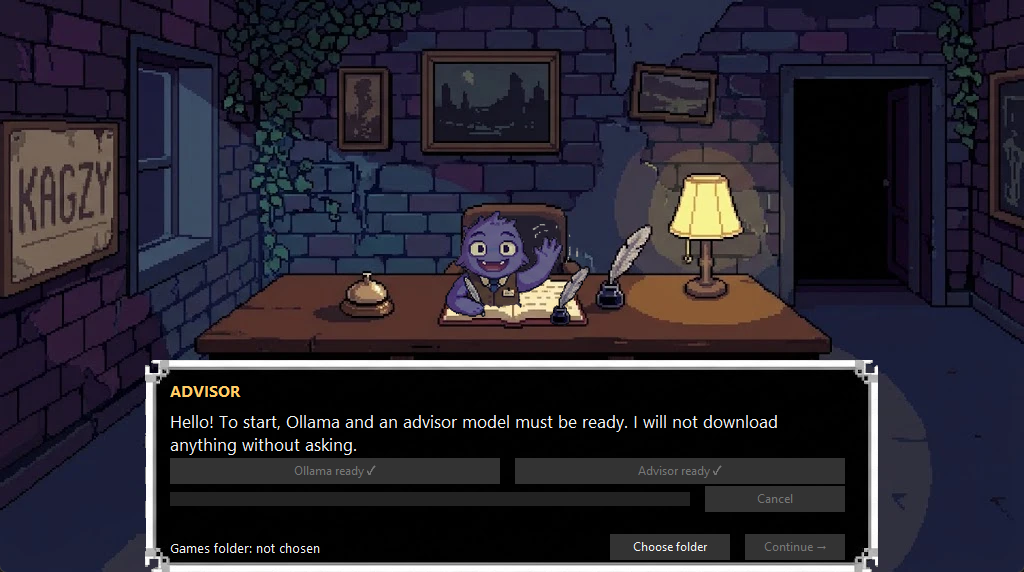
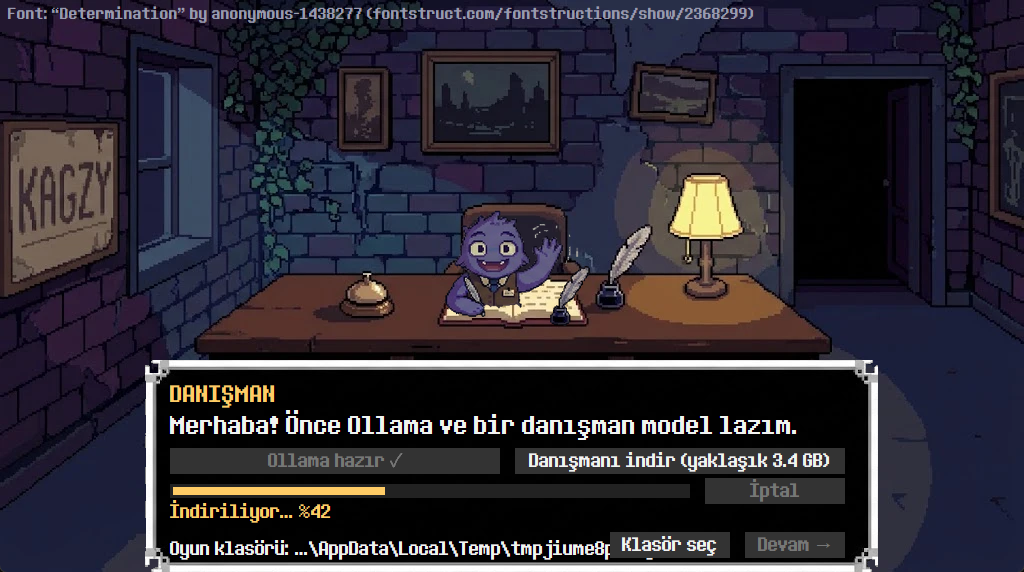
feat(ui): yazılar Determination yazı tipiyle; atıf pencerede, LICENSE.txt ve README'de

Changed region(s): [[0.1562, 0.6538, 0.8438, 0.9808], [0.0, 0.0, 0.75, 0.0594]]

diff --git a/src/k_minigames/ui/setup_screen.py b/src/k_minigames/ui/setup_screen.py
@@ -9,13 +9,14 @@ from tkinter import ttk
 from k_minigames import catalog, hardware, i18n, installer, library, model_check, settings
 from k_minigames.ollama_client import InstalledModel
 from k_minigames.startup import CANCEL_MESSAGE, Offer, build_offers, first_accepted, setup_buttons, SetupButtons
+from k_minigames.ui import fonts
 from k_minigames.ui.services import Services
 from k_minigames.ui.stage import LABEL_COLOR, TEXT_COLOR, TEXT_X
 
 t = i18n.t
 
-INTRO = "Merhaba! Başlamak için Ollama'nın ve bir danışman modelin hazır olması lazım. Sormadan hiçbir şey indirmem."
-BUTTON_Y, PROGRESS_Y, STATUS_Y, FOLDER_Y = 458, 492, 510, 534
+INTRO = "Merhaba! Önce Ollama ve bir danışman model lazım."
+BUTTON_Y, PROGRESS_Y, STATUS_Y, FOLDER_Y = 448, 484, 500, 532
 _MEASURE = object()
 _INSTALL_RESULT = {
     "download_failed": "İndirme olmadı. İnternet bağlantını kontrol edip tekrar dene.",
@@ -54,7 +55,8 @@ class SetupScreen:
 
     def _button(self, x: int, y: int, width: int, command) -> tk.Button:
         button = tk.Button(self.s.stage, relief="flat", bg="#333333", fg=TEXT_COLOR, activebackground="#555555",
-                           activeforeground=TEXT_COLOR, disabledforeground="#777777", command=command)
+                           activeforeground=TEXT_COLOR, disabledforeground="#777777", command=command,
+                           font=fonts.font(self.s.stage, fonts.BUTTON))
         self.s.stage.create_window(x, y, anchor="nw", window=button, width=width, height=26, tags="setup")
         self._widgets.append(button)
         return button
@@ -72,9 +74,9 @@ class SetupScreen:
         self._widgets.append(self.bar)
         self.cancel_button = self._button(TEXT_X + 535, PROGRESS_Y - 6, 140, self._on_cancel)
         self.cancel_button.configure(text=t("İptal"), state="disabled")
-        stage.create_text(TEXT_X, STATUS_Y, anchor="nw", text="", fill=LABEL_COLOR, font=("Segoe UI", 10),
+        stage.create_text(TEXT_X, STATUS_Y, anchor="nw", text="", fill=LABEL_COLOR, font=fonts.font(stage, fonts.BUTTON),
                           tags=("setup", "status"))
-        stage.create_text(TEXT_X, FOLDER_Y + 5, anchor="nw", text="", fill=TEXT_COLOR, font=("Segoe UI", 10),
+        stage.create_text(TEXT_X, FOLDER_Y + 5, anchor="nw", text="", fill=TEXT_COLOR, font=fonts.font(stage, fonts.BUTTON),
                           tags=("setup", "folder"))
         self.folder_button = self._button(TEXT_X + 440, FOLDER_Y, 120, self._on_folder)
         self.folder_button.configure(text=t("Klasör seç"))
@@ -90,8 +92,8 @@ class SetupScreen:
     def _show_folder(self) -> None:
         folder = settings.games_dir()
         shown = str(folder) if folder else t("seçilmedi")
-        if len(shown) > 52:
-            shown = "…" + shown[-51:]
+        if len(shown) > 40:
+            shown = "…" + shown[-39:]
         self.s.stage.itemconfigure("folder", text=f"{t('Oyun klasörü')}: {shown}")
 
     def apply_buttons(self, buttons: SetupButtons, ollama_size: str | None, advisor_gb: float,

diff --git a/src/k_minigames/ui/stage.py b/src/k_minigames/ui/stage.py
@@ -8,6 +8,7 @@ from collections.abc import Callable
 from pathlib import Path
 
 from k_minigames import i18n, mascot
+from k_minigames.ui import fonts
 
 RUNTIME = Path(__file__).resolve().parent.parent / "assets" / "runtime"
 _SCENES = {"danisman": "danisman_sahne.png", "lobi": "lobi.png"}
@@ -31,6 +32,8 @@ class Stage(tk.Canvas):
         self.entry: tk.Entry | None = None
         self._send_button: tk.Button | None = None
         self._dialog_drawn = False
+        self.create_text(8, 4, anchor="nw", text=fonts.ATTRIBUTION, fill="#9a9ab0",
+                         font=fonts.font(self, fonts.SMALL), tags="credit")
 
     def _picture(self, relative: str) -> tk.PhotoImage:
         if relative not in self._pictures:
@@ -41,6 +44,7 @@ class Stage(tk.Canvas):
 
     def _layer(self) -> None:
         """scene at the bottom, then the character, then the dialogue box and its widgets."""
+        self.tag_raise("credit")
         for tag in ("dialog", "dialogtext", "input"):
             self.tag_raise(tag)
         if self.find_withtag("dialog"):
@@ -65,9 +69,9 @@ class Stage(tk.Canvas):
             self._dialog_drawn = True
         self.delete("dialogtext")
         self.create_text(TEXT_X, LABEL_Y, anchor="nw", text=i18n.t(speaker), fill=LABEL_COLOR,
-                         font=("Segoe UI", 12, "bold"), tags="dialogtext")
+                         font=fonts.font(self, fonts.LABEL), tags="dialogtext")
         self.create_text(TEXT_X, MESSAGE_Y, anchor="nw", text=text, fill=TEXT_COLOR, width=MESSAGE_WIDTH,
-                         font=("Segoe UI", 13), tags="dialogtext")
+                         font=fonts.font(self, fonts.MESSAGE), tags="dialogtext")
         self._layer()
 
     def ask(self, on_submit: Callable[[str], None]) -> None:
@@ -75,11 +79,11 @@ class Stage(tk.Canvas):
         self.stop_asking()
         self._on_submit = on_submit
         self.entry = tk.Entry(self, bg="black", fg=TEXT_COLOR, insertbackground=TEXT_COLOR, relief="flat",
-                              font=("Segoe UI", 13), highlightthickness=1, highlightbackground="#666666",
+                              font=fonts.font(self, fonts.INPUT), highlightthickness=1, highlightbackground="#666666",
                               highlightcolor=LABEL_COLOR)
         self._send_button = tk.Button(self, text=i18n.t("Gönder"), command=self.submit, relief="flat",
                                       bg="#333333", fg=TEXT_COLOR, activebackground="#555555",
-                                      activeforeground=TEXT_COLOR)
+                                      activeforeground=TEXT_COLOR, font=fonts.font(self, fonts.BUTTON))
         self.create_window(TEXT_X, INPUT_Y, anchor="nw", window=self.entry, width=590, height=30, tags="input")
         self.create_window(TEXT_X + 600, INPUT_Y, anchor="nw", window=self._send_button, width=80, height=30,
                            tags="input")

diff --git a/src/k_minigames/ui/fonts.py b/src/k_minigames/ui/fonts.py
@@ -1,0 +1,48 @@
+"""The app's font: “Determination” (the pixel font of the dialogue boxes in Undertale-like games).
+
+The .ttf lives in assets/fonts next to its attribution (LICENSE.txt); `ATTRIBUTION` is shown in the window. The font
+is made available to this process only (nothing is installed on the computer). If it is missing the app falls back to
+a system font, so a broken install never stops the app."""
+import ctypes
+import tkinter as tk
+from pathlib import Path
+from tkinter import font as tkfont
+
+FONT_DIR = Path(__file__).resolve().parent.parent / "assets" / "fonts"
+FALLBACK = "Segoe UI"
+ATTRIBUTION = "Font: “Determination” by anonymous-1438277 (fontstruct.com/fontstructions/show/2368299)"
+_FAMILY = "Determination"
+_FR_PRIVATE = 0x10   # AddFontResourceEx: usable by this process only, gone when it ends
+
+# pixel sizes (Tk: a negative size is in pixels, which keeps a pixel font sharp)
+LABEL, MESSAGE, INPUT, BUTTON, LIST, SMALL = 22, 24, 22, 18, 20, 15
+
+_loaded = False
+_count = 0
+
+
+def load() -> int:
+    """Make every .ttf in FONT_DIR usable for this process. Returns how many were added (0 when there are none)."""
+    global _loaded, _count
+    if _loaded:
+        return _count
+    _count = 0
+    for path in sorted(FONT_DIR.glob("*.ttf")) if FONT_DIR.is_dir() else []:
+        try:
+            if ctypes.windll.gdi32.AddFontResourceExW(str(path), _FR_PRIVATE, 0):
+                _count += 1
+        except (AttributeError, OSError):
+            pass
+    _loaded = True
+    return _count
+
+
+def family(root: tk.Misc) -> str:
+    """The font's family name if Tk can see it, else a system font."""
+    load()
+    return _FAMILY if _FAMILY in tkfont.families(root) else FALLBACK
+
+
+def font(root: tk.Misc, size: int) -> tuple[str, int]:
+    """A Tk font tuple at `size` pixels."""
+    return family(root), -size

diff --git a/src/k_minigames/ui/library_screen.py b/src/k_minigames/ui/library_screen.py
@@ -3,12 +3,13 @@ import tkinter as tk
 
 from k_minigames import i18n, library, settings
 from k_minigames.library import Game
+from k_minigames.ui import fonts
 from k_minigames.ui.services import Services
 from k_minigames.ui.stage import LABEL_COLOR, TEXT_COLOR, TEXT_X
 
 t = i18n.t
 
-INTRO = "Oyunların burada. Birini seç ya da yeni bir tane yapalım!"
+INTRO = "Oyunların burada. Birini seç ya da yeni oyun yap!"
 EMPTY = "Henüz oyunun yok. Hadi ilkini yapalım!"
 SPEAKER = "GÖREVLİ"
 LIST_Y, BUTTON_X, BUTTON_W = 440, 660, 190
@@ -43,13 +44,14 @@ class LibraryScreen:
 
     def _button(self, text: str, y: int, command) -> None:
         button = tk.Button(self.s.stage, text=t(text), command=command, relief="flat", bg="#333333", fg=TEXT_COLOR,
-                           activebackground="#555555", activeforeground=TEXT_COLOR)
+                           activebackground="#555555", activeforeground=TEXT_COLOR,
+                           font=fonts.font(self.s.stage, fonts.BUTTON))
         self._place(button, BUTTON_X, y, BUTTON_W, 26)
 
     def _build(self) -> None:
         self.listbox = tk.Listbox(self.s.stage, bg="black", fg=TEXT_COLOR, selectbackground=LABEL_COLOR,
                                   selectforeground="black", relief="flat", highlightthickness=1,
-                                  highlightbackground="#666666", font=("Segoe UI", 12), activestyle="none",
+                                  highlightbackground="#666666", font=fonts.font(self.s.stage, fonts.LIST), activestyle="none",
                                   exportselection=False)
         for game in self._games:
             self.listbox.insert("end", game.name)

diff --git a/src/k_minigames/i18n.py b/src/k_minigames/i18n.py
@@ -13,8 +13,7 @@ _PAIRS = {
     "Oyun klasörü": "Games folder",
     "DANIŞMAN": "ADVISOR", "SEN": "YOU", "Gönder": "Send",
     # setup screen
-    "Merhaba! Başlamak için Ollama'nın ve bir danışman modelin hazır olması lazım. Sormadan hiçbir şey indirmem.":
-        "Hello! To start, Ollama and an advisor model must be ready. I will not download anything without asking.",
+    "Merhaba! Önce Ollama ve bir danışman model lazım.": "Hello! First we need Ollama and an advisor model.",
     "Ollama'yı indir": "Download Ollama", " (yaklaşık ": " (about ", "Ollama'yı başlat": "Start Ollama",
     "Ollama hazır ✓": "Ollama ready ✓", "Danışmanı indir": "Download the advisor",
     "Danışman modelini seç": "Choose the advisor model", "Danışman hazır ✓": "Advisor ready ✓",
@@ -53,7 +52,7 @@ _PAIRS = {
     "; bilgisayar zayıf, en küçük model denenebilir": "; this computer is weak, the smallest model can be tried",
     # library and studio (the bellhop)
     "GÖREVLİ": "BELLHOP",
-    "Oyunların burada. Birini seç ya da yeni bir tane yapalım!": "Your games are here. Pick one or let's make a new one!",
+    "Oyunların burada. Birini seç ya da yeni oyun yap!": "Your games are here. Pick one or make a new one!",
     "Henüz oyunun yok. Hadi ilkini yapalım!": "You have no games yet. Let's make your first one!",
     "Oyna": "Play", "Düzenle": "Edit", "Klasörü aç": "Open folder", "Yeni oyun": "New game",
     "Kütüphane": "Library", "Tekrar dene": "Try again", "Doku ekle": "Add texture",

diff --git a/tests/test_fonts.py b/tests/test_fonts.py
@@ -1,0 +1,45 @@
+import tkinter as tk
+
+import pytest
+
+from k_minigames.ui import fonts
+
+
+@pytest.fixture
+def root():
+    try:
+        window = tk.Tk()
+    except tk.TclError:
+        pytest.skip("no display for Tk")
+    window.withdraw()
+    yield window
+    window.destroy()
+
+
+def test_the_font_file_and_its_attribution_ship_together():
+    assert (fonts.FONT_DIR / "determination.ttf").is_file()
+    notice = (fonts.FONT_DIR / "LICENSE.txt").read_text(encoding="utf-8")
+    assert 'The FontStruction “Determination”' in notice
+    assert "https://fontstruct.com/fontstructions/show/2368299" in notice and "anonymous-1438277" in notice
+
+
+def test_the_font_is_loaded_for_the_app_and_found_by_name(root):
+    assert fonts.load() >= 1
+    assert fonts.family(root) == "Determination"
+
+
+def test_when_the_font_cannot_be_found_the_app_falls_back_to_a_system_font(root, monkeypatch):
+    monkeypatch.setattr(fonts, "FONT_DIR", fonts.FONT_DIR / "yok")
+    monkeypatch.setattr(fonts, "_loaded", False)
+    monkeypatch.setattr(fonts, "_FAMILY", "Olmayan Yazı Tipi")
+    assert fonts.family(root) == fonts.FALLBACK
+
+
+def test_font_returns_a_family_and_a_pixel_size_in_tk_form(root):
+    family, size = fonts.font(root, 20)
+    assert family == "Determination" and size == -20
+
+
+def test_the_attribution_line_names_the_font_its_author_and_the_page():
+    line = fonts.ATTRIBUTION
+    assert "Determination" in line and "anonymous-1438277" in line and "fontstruct.com" in line

diff --git a/src/k_minigames/ui/studio_screen.py b/src/k_minigames/ui/studio_screen.py
@@ -16,6 +16,7 @@ from k_minigames.htmlscan import Problem
 from k_minigames.library import Game
 from k_minigames.report_server import ReportServer
 from k_minigames.testlist import FAILED, PASSED, UNVERIFIED
+from k_minigames.ui import fonts
 from k_minigames.ui.services import Services
 from k_minigames.ui.stage import TEXT_COLOR, TEXT_X
 from k_minigames.ui.typewriter import type_text
@@ -115,7 +116,7 @@ class StudioScreen:
 
     def _small_button(self, text: str, x: int, y: int, width: int, command, tag: str = "studio") -> tk.Button:
         button = tk.Button(self.s.stage, text=t(text), command=command, relief="flat", bg="#333333", fg=TEXT_COLOR,
-                           activebackground="#555555", activeforeground=TEXT_COLOR, font=("Segoe UI", 9))
+                           activebackground="#555555", activeforeground=TEXT_COLOR, font=fonts.font(self.s.stage, fonts.BUTTON))
         self.s.stage.create_window(x, y, anchor="nw", window=button, width=width, height=24, tags=tag)
         return button
 

diff --git a/docs/HAFIZA.md b/docs/HAFIZA.md
@@ -24,8 +24,8 @@ Kullanıcının kendi bilgisayarında Ollama ile yerel yapay zekaya oyun yaptır
 - Brainstorming bitti, spec onaylandı (2026-10-28). Uygulama planı yazıldı: `docs/superpowers/plans/2026-10-28-k-minigames.md` (17 görev; 17. görev K-Optimizer deposunda K-Series entegrasyonu). Plana sonradan "çözülmüş hatalar" hafızası eklendi (testler.json `resolved`; düzenleme istemine verilir). Modelin oyunu "eğlenceli mi" diye değerlendirmesi kapsam dışı (kullanıcı da teyit etti). Uygulamanın kendi hafızası eklendi (Görev 18): danışman için `danisman_hafiza.md`, ayı için oyunun `hafiza.md`'si; her mesajdan sonra özetlenir, her modele giden isteğin en başına konur. Kullanıcının planı incelemesi ve yürütme yöntemini (subagent/native) seçmesi bekleniyor.
 - UI görselleri (sahne, diyalog kutusu, 9 danışman karesi, 12 ayı karesi) hazır ve repoda (CP-1..CP-3). Üretim ekranının arka planı (otel lobisi, `lobi.png`) eklendi (CP-5). Başlangıç, kütüphane ve düzenleme ekranlarının görselleri henüz yok.
 - Danışman modeli: Türkçe deneme yapıldı (aynı soru, 5 model). qwen3.5:4b en doğal, gemma3:4b akıcı, llama3/llama3.1:8b orta, qwen2.5:3b zayıf (bozuk cümleler). Varsayılan danışman qwen3.5:4b (3.4 GB) oldu; alternatif gemma3:4b. Elle doğrulanamayanlar: Görev 15 ve 18'deki gerçek üretim denemeleri (kod yazan model henüz denenmedi).
-- Bekleyen kullanıcı isteği: yazılar Undertale'ın yazı tipinde (Determination Mono) olsun. Dosya yok; Türkçe harf desteği ve lisansı dosya gelince kontrol edilecek. Kullanıcı `src/k_minigames/assets/fonts/` içine .ttf koyacak ya da indirme adresi + onay verecek. Gelene kadar Segoe UI; yükleyici Windows'ta AddFontResourceExW(FR_PRIVATE) ile yapılabilir.
 - Gerçek denemede (llama3.1:8b, kod modeli yok) bulunanlar: model test kodunu JSON içinde ters tırnakla yazıyordu (ayrıştırıcı artık okuyor); madde listesi teknik kuralları madde sanıyordu (istem düzeltildi); boş `return true;` testleri 'anlamsız' diye yakalanıyor. Oyun kalitesi modele bağlı: llama3.1:8b zayıf yazıyor; qwen2.5-coder:7b önerilir ama indirmek kullanıcı onayı ister (henüz indirilmedi, denenmedi).
+- Yazı tipi: Determination (FontStruct, anonymous-1438277) eklendi ve bütün yazılara uygulandı (`ui/fonts.py`); atıf pencerede ve `assets/fonts/LICENSE.txt` içinde. Türkçe harflerin hepsi destekleniyor; `✓ → ₺` yok ama Tk yedek yazı tipiyle çiziyor. Lisans metnini kullanıcının verdiği atıf şartından başka doğrulayamadım (yayından önce FontStruct sayfasındaki lisansı okumak gerekir).
 - Uygulama ilerlemesi: Görev 18/18 tamam; son inceleme bekliyor
 
 ## Kullanıcıyla çalışma

diff --git a/README.md b/README.md
@@ -25,3 +25,7 @@ python -m PyInstaller K-MiniGames.spec     # dist/K-MiniGames.exe
 ```
 
 Görsel araçları (`tools/`: damalı arka planı temizleme, ayı karelerini bölme, çalışma görsellerini hazırlama, simge) Pillow ister: `pip install -r requirements-tools.txt`. Uygulamanın kendisi yalnızca standart kütüphaneyi kullanır.
+
+## Atıflar
+
+- Yazı tipi: The FontStruction “Determination” (https://fontstruct.com/fontstructions/show/2368299) by “anonymous-1438277”. Lisansı o sayfada yazılıdır; atıf uygulamanın penceresinde gösterilir ve yazı tipiyle birlikte `src/k_minigames/assets/fonts/LICENSE.txt` içinde durur.
